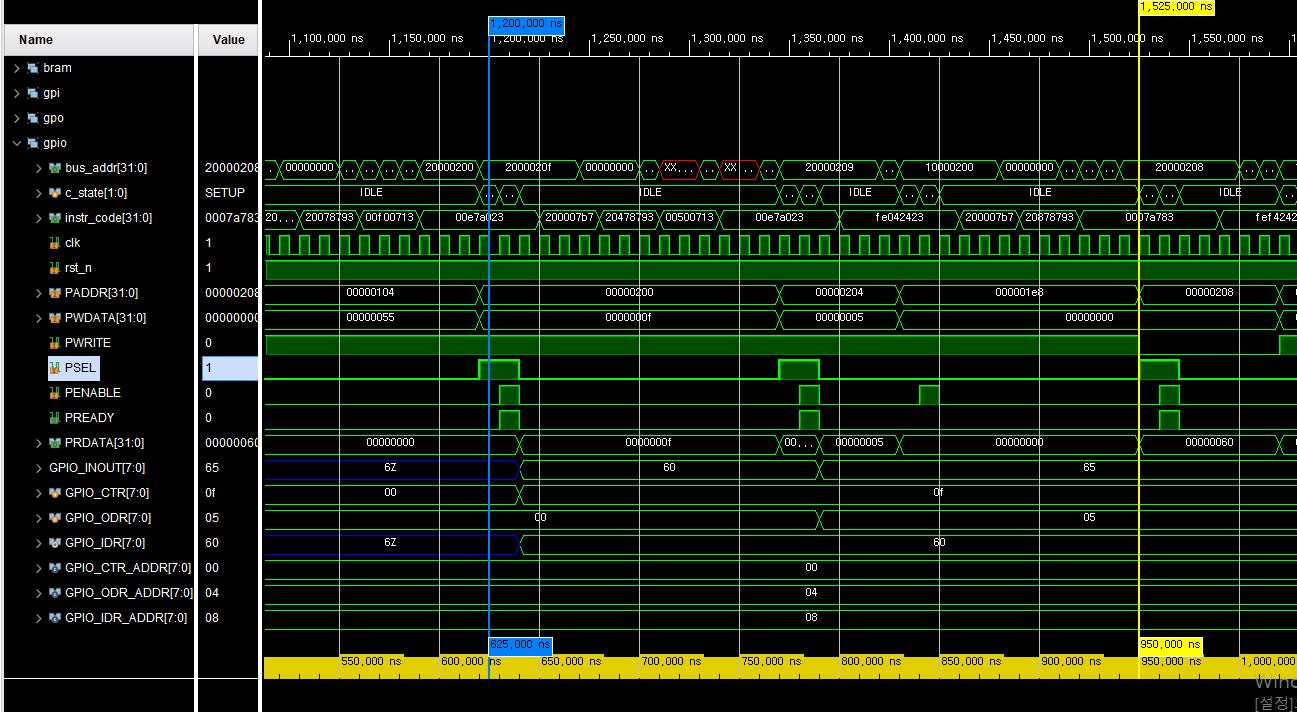
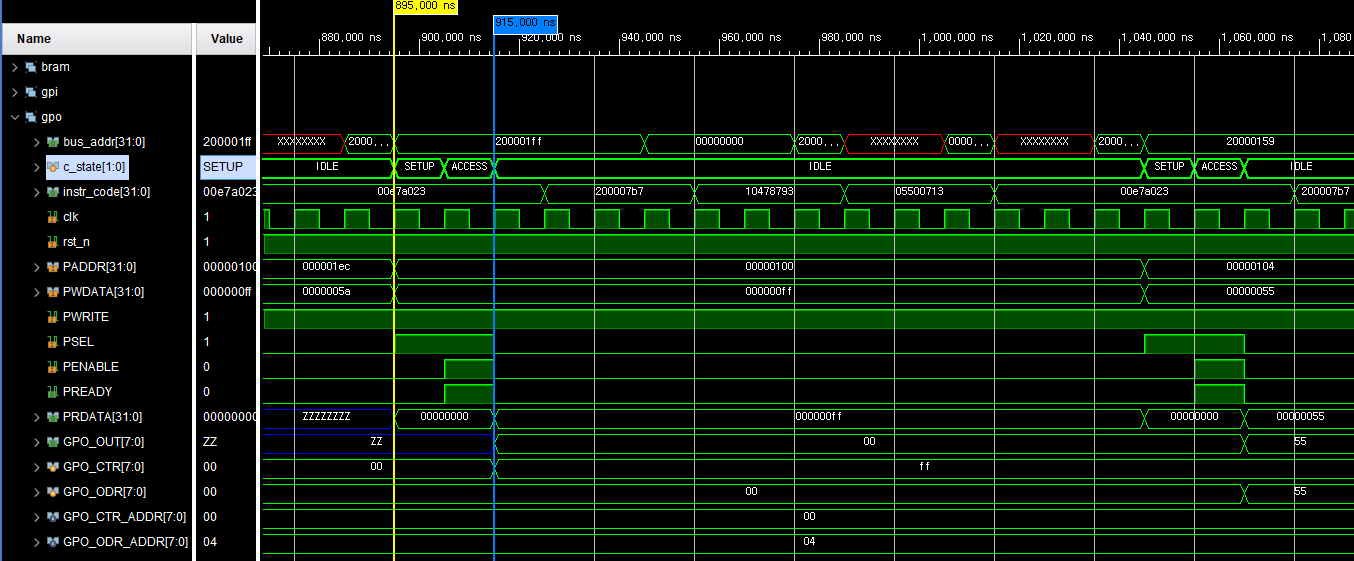
readme 수정

diff --git a/README.md b/README.md
@@ -1,0 +1,131 @@
+# AMBA APB 버스 기반 RV32I Multi-Cycle SoC
+
+직접 설계한 RISC-V(RV32I) Multi-Cycle CPU에 **AMBA APB 버스**를 붙여, 펌웨어의 `lw` · `sw` 명령만으로 RAM과 GPIO를 제어하는 SoC입니다.
+4인 팀 프로젝트(AI 시스템 반도체 설계 1기 7조, 2026.09.11 ~ 09.16) 중 **APB Interface(Requester · Completer 4종 · 메모리 맵)** 를 맡았습니다.
+
+| 항목 | 내용 |
+| --- | --- |
+| 내 담당 | APB Requester(Master) FSM · 주소 디코더 · 응답 MUX, Completer 4종(BRAM · GPI · GPO · GPIO), 메모리 맵, 파형 검증 |
+| APB 전송 | SETUP → ACCESS 2 cycle, zero wait state |
+| 주변장치 | BRAM 512B, GPI 8bit, GPO 8bit, 양방향 GPIO 8bit (확장 슬롯 3개 예약) |
+| 검증 결과 | 펌웨어 시나리오 BRAM · GPI · GPO · GPIO 읽기/쓰기 **전 항목 기대값 일치** (Vivado 시뮬레이션) |
+| 도구 | SystemVerilog, Vivado 2020.2 (xsim), Basys-3(타깃), Verilator(lint · 재검증) |
+
+파일별 작성자는 [CONTRIBUTIONS.md](CONTRIBUTIONS.md)에 정리했습니다.
+
+## 시스템 구조
+
+![시스템 구조](docs/img/system_structure.png)
+
+- CPU는 MEM 단계에서 `transfer` · `bus_addr` · `bus_wdata` · `bus_we` 를 내보내고, `ready` 가 올 때까지 MEM 상태에 머뭅니다.
+- `apb_requester` 가 이를 APB 신호로 바꾸고, 주소로 Completer 하나를 골라 그 응답만 CPU에 돌려줍니다.
+- `PADDR` · `PWDATA` · `PWRITE` · `PENABLE` 은 모든 Completer가 공유하고, `PSEL` · `PREADY` · `PRDATA` 만 장치마다 따로 연결했습니다.
+
+## 메모리 맵
+
+![메모리 맵](docs/img/memory_map.png)
+
+32비트 주소를 `[31:28]` 영역 → `[11:8]` 장치 → `[7:0]` 레지스터 오프셋 순서로 2단계 디코딩합니다.
+
+| 시작 주소 | 장치 | PSEL | 레지스터 (오프셋) | 상태 |
+| --- | --- | --- | --- | --- |
+| 0x1000_0000 | APB BRAM (512B) | PSEL0 | dmem[0:127] | 구현 |
+| 0x2000_0000 | GPI | PSEL1 | CTR(+0x00) · IDR(+0x04) | 구현 |
+| 0x2000_0100 | GPO | PSEL2 | CTR(+0x00) · ODR(+0x04) | 구현 |
+| 0x2000_0200 | GPIO (양방향) | PSEL3 | CTR(+0x00) · ODR(+0x04) · IDR(+0x08) | 구현 |
+| 0x2000_0300 ~ 0500 | FND · UART · 예비 | PSEL4 ~ 6 | — | 예약 |
+
+## 설계
+
+### APB Requester — `rtl/apb_requester.sv`
+
+![APB 전송 FSM](docs/img/apb_fsm.png)
+
+| 상태 | 동작 |
+| --- | --- |
+| IDLE | `transfer` 가 들어오면 주소 · 데이터 · 쓰기 여부를 레지스터에 래치 → SETUP |
+| SETUP | 주소 디코더를 켜서 `PSELx = 1`, `PENABLE = 0` → ACCESS |
+| ACCESS | `PENABLE = 1`. 선택된 Completer의 `PREADY = 1` 이면 IDLE, 0이면 대기(wait state) |
+
+- `address_decoder`: `PADDR[31:28]` 로 RAM/주변장치 영역을, `PADDR[11:8]` 로 장치를 골라 `PSEL0~6` 과 `mux_sel` 을 만듭니다.
+- `apb_mux`: `mux_sel` 로 해당 Completer의 `PRDATA` · `PREADY` 만 CPU의 `bus_rdata` · `ready` 로 연결합니다.
+- 결과적으로 store는 6 cycle(FETCH · DECODE · EXECUTE · MEM × 3), load는 WB를 더해 7 cycle에 끝납니다.
+
+### Completer 4종 (zero wait state: `PREADY = PSEL & PENABLE`)
+
+| 모듈 | 구조 | 동작 |
+| --- | --- | --- |
+| `apb_bram` (`rtl/apb_ram.sv`) | 32bit × 128 word | ACCESS에서 `PWRITE` 이고 SW 명령이면 기록, 읽기는 `dmem[PADDR[31:2]]` 조합 출력 |
+| `apb_gpi` | CTR · IDR | CTR 비트가 1인 스위치 입력만 IDR로 통과 (IDR은 F/F이 아닌 wire) |
+| `apb_gpo` | CTR · ODR | CTR ≠ 0 이면 ODR을 LED로 출력, 0이면 전체 hi-z |
+| `apb_gpio` | CTR · ODR · IDR | CTR 비트별 방향 설정(1 = 출력, 0 = 입력)하는 tri-state 양방향 포트. 입력 비트만 IDR로 읽힘 |
+
+| GPI · GPO | GPIO |
+| --- | --- |
+| ![GPI GPO](docs/img/apb_gpi_gpo.png) | ![GPIO](docs/img/apb_gpio.png) |
+
+## 검증
+
+### 테스트 시나리오 — `sim/gpio_rom_code.txt`
+C로 작성한 테스트 펌웨어를 RISC-V GCC로 빌드해 ROM에 넣었습니다 (`sim/rom_code_apb_gpio.mem`). 테스트벤치는 스위치 입력 `sw = 0x65A` 를 줍니다.
+
+1. BRAM 0x1000_0000에 0x12345678을 쓰고 다시 읽기
+2. GPI CTR = 0xFF 로 입력을 열고 IDR 읽기 → 스위치 `sw[7:0]` 값이 보여야 함
+3. GPO CTR = 0xFF, ODR = 0x55 쓰기 → LED `led[7:0]` 출력
+4. GPIO CTR = 0x0F(하위 4핀 출력, 상위 4핀 입력), ODR = 0x05 쓰기, IDR 읽기
+
+### 결과
+
+| 항목 | 기대값 | 결과 | 파형 |
+| --- | --- | --- | --- |
+| BRAM write → read | 0x12345678 | 0x12345678 | ![](docs/img/wave_bram.png) |
+| GPI IDR (CTR = 0xFF) | sw[7:0] = 0x5A | 0x5A | ![](docs/img/wave_gpi.png) |
+| GPO 출력 (ODR = 0x55) | led[7:0] = 0x55 | 0x55 | ![](docs/img/wave_gpo.png) |
+| GPIO 핀 (CTR = 0x0F, ODR = 0x05) | 하위 출력 5, 상위 입력 6 → 0x65 | 0x65 | ![](docs/img/wave_gpio.png) |
+| GPIO IDR | 입력 비트만 통과 → 0x60 | 0x60 | 〃 |
+| 스택 저장 (GPI · GPIO 값을 지역 변수에 저장) | dmem[123] = 0x5A, dmem[122] = 0x60 | 일치 | — |
+
+같은 소스로 Verilator 재시뮬레이션에서도 모든 APB 트랜잭션 값이 동일하게 재현됐습니다. 파형 이미지는 클릭하면 크게 볼 수 있습니다.
+
+## 실행 방법 (Vivado)
+
+1. 새 RTL 프로젝트(Basys-3, xc7a35tcpg236-1)를 만들고 `rtl/` 의 모든 파일을 Design Source로 추가합니다. `rtl/pkg/rv32i_pkg.sv` 가 먼저 컴파일되도록 둡니다.
+2. `sim/tb_rv32i_apb.sv` 와 `sim/rom_code_apb_gpio.mem` 을 Simulation Source로 추가하고, top을 `tb_rv32i_apb` 로 지정합니다.
+3. Run Behavioral Simulation (테스트벤치가 3 µs 뒤 종료).
+
+`constraints/Basys-3-Master.xdc` 는 보드 핀 배치용입니다. 아래 한계 1번 때문에 현재 설계는 보드에서 검증하지 않았습니다.
+
+## 폴더 구조
+
+```
+rtl/          RV32I CPU + APB Requester + Completer 4종 (top: rv32i_top in rv32i_cpu.sv)
+sim/          테스트벤치, 테스트 펌웨어(.mem), 펌웨어 디스어셈블
+constraints/  Basys-3 핀 배치
+docs/img/     구조도, 파형 캡처
+```
+
+## 팀
+
+| 이름 | 담당 |
+| --- | --- |
+| 문준석 | RV32I Multi-Cycle 코어 (Datapath · Control Unit) |
+| **김진환** | **APB Interface (Requester · Completer · 메모리 맵)** |
+| 김서연 | Top 통합 · 펌웨어 테스트 |
+| 홍성은 | UVM 검증 (VCS · Verdi) |
+
+## 한계 및 개선 방향
+
+현재 설계는 **Vivado 행위 시뮬레이션 기준으로 검증**했습니다 (BRAM · GPI · GPO · GPIO 읽기/쓰기 값 모두 기대값과 일치).
+GPIO를 추가한 최종 설계로는 FPGA 비트스트림을 다시 만들어 보드에서 확인하지 않았습니다.
+코드 검토와 Verilator lint에서 확인한 한계와 개선 방향은 다음과 같습니다.
+
+| 구분 | 현재 상태 | 영향 | 개선 방향 |
+| --- | --- | --- | --- |
+| GPIO 핀 연결 | `apb_gpio`의 양방향 포트를 최상위 **입력** 포트 `sw[11:8]`에 연결 | 시뮬레이션에서는 동작하지만, 입력 핀을 구동하는 구조라 FPGA에서는 출력 방향으로 쓸 수 없음 (Verilator는 오류로 처리) | 최상위에 별도 `inout` 포트(예: Pmod JA)를 두고 xdc에 연결 |
+| 미매핑 주소 응답 | FND·UART용 PSEL4~6의 PREADY/PRDATA가 연결되지 않았고, 정의되지 않은 주소에는 응답하는 Completer가 없음 | 해당 주소에 접근하면 ready가 오지 않아 CPU가 MEM 상태에서 멈춤 | 미매핑 주소에 기본 Completer(PREADY=1, PRDATA=0)를 두거나 PSLVERR 응답 추가 |
+| 바이트 · 하프워드 접근 | BRAM은 SW(funct3=010)만 저장, SB/SH는 무시. LB/LH는 워드 전체를 반환 | C 코드에서 char/short 접근 시 잘못된 결과 | PADDR[1:0]과 funct3로 바이트 레인(PSTRB) 선택, 로드 데이터 부호 확장 추가 |
+| BRAM 주소 범위 | 128워드 메모리를 PADDR[31:2]로 인덱싱, 범위 검사 없음 | 0x1000_0200 이상 주소는 앞쪽 주소와 겹치거나 X | 범위 밖 접근을 PSLVERR로 처리하거나 인덱스를 [8:2]로 제한 |
+| Completer 일관성 | 미정의 레지스터 읽기 시 GPI·GPO는 `z`, GPIO는 `0` 반환. 리셋도 GPIO만 비동기 | 동작에는 문제없으나 합성 경고, 코드 일관성 부족 | 모든 Completer의 기본 응답을 `0`, 리셋 방식을 하나로 통일 |
+| 테스트벤치 | VCS 파형 덤프 문장이 존재하지 않는 모듈명(`tb_rv32i_cpu`)을 가리킴. 결과 판정을 파형 눈확인에 의존 | VCS에서 덤프 실패, 회귀 테스트 불가 | 모듈명 수정, 기대값을 비교하는 self-checking 테스트벤치로 전환 |
+
+참고: `docs/img`의 GPI · GPO · GPIO 파형은 ROM 코드에 BRAM 읽기 명령(lw)이 추가되기 전에 캡처되어, 현재 코드로 시뮬레이션하면 같은 값이 약 70ns(7클럭) 늦게 나타납니다.
